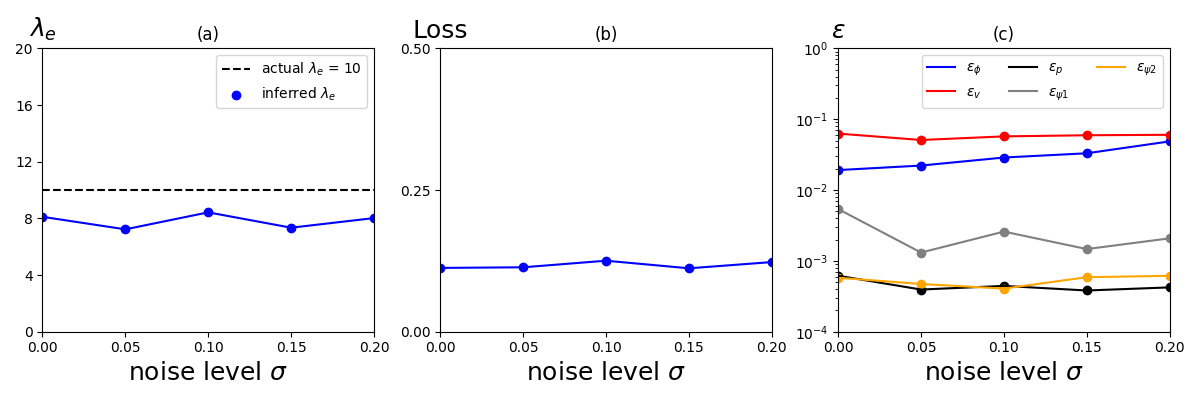
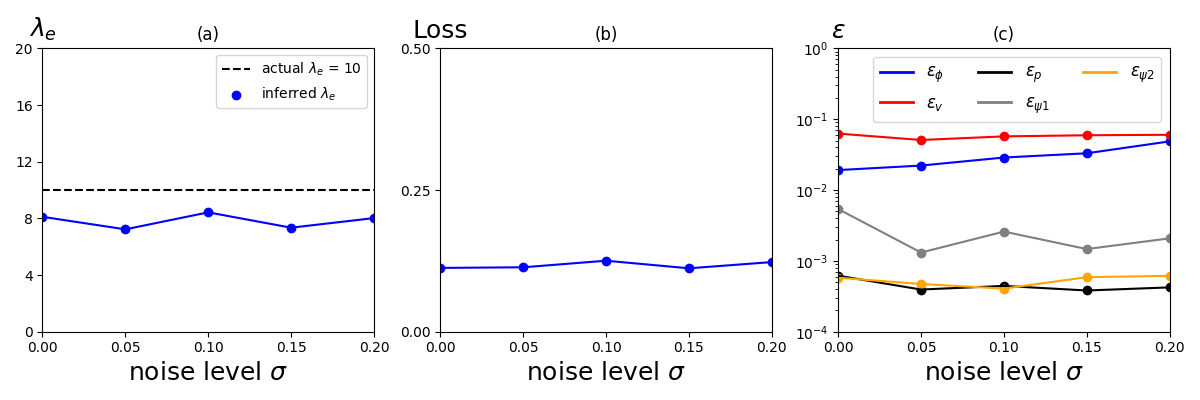
.

Changed region(s): [[0.74, 0.12, 0.9867, 0.3]]

diff --git a/Thrombus/Plot/lmd_2_10_comp/lmd_comp.py b/Thrombus/Plot/lmd_2_10_comp/lmd_comp.py
@@ -34,7 +34,7 @@ def main():
     x_2d = np.concatenate((x1_grid.flatten()[:,None], x2_grid.flatten()[:,None]), axis=1)
 
     ## load data file
-    y_data_2 = np.zeros((6, file_end-file_start, num_x1, num_x2))
+    y_data_15 = np.zeros((6, file_end-file_start, num_x1, num_x2))
     t_step = 0
     for file_id in range(file_start, file_end):
         name_u = '../../../Data/CH/phase_field_xiaoning/Lmd_e_15_K_001/dat/half' + str(file_id) + '.dat'
@@ -45,10 +45,10 @@ def main():
         ## x_tmp: [t,x,y]   u_tmp:[u,v,p,phi]
         y_tmp = np.concatenate(( data_u[:,3:5], data_u[:,6:7], data_phi[:,3:4], data_u[:, 7:9]), axis=1)
         for j in range (0, 6):
-            y_data_2[j, t_step, :, :] = y_tmp[:,j].reshape(100, 100)
+            y_data_15[j, t_step, :, :] = y_tmp[:,j].reshape(100, 100)
         t_step = t_step + 1
 
-    y_data_10 = np.zeros((6, file_end-file_start, num_x1, num_x2))
+    y_data_01 = np.zeros((6, file_end-file_start, num_x1, num_x2))
     t_step = 0
     for file_id in range(file_start, file_end):
         name_u = '../../../Data/CH/phase_field_xiaoning/Lmd_e_01_K_001/dat/half' + str(file_id) + '.dat'
@@ -59,34 +59,34 @@ def main():
         ## x_tmp: [t,x,y]   u_tmp:[u,v,p,phi]
         y_tmp = np.concatenate(( data_u[:,3:5], data_u[:,6:7], data_phi[:,3:4], data_u[:, 7:9]), axis=1)
         for j in range (0, 6):
-            y_data_10[j, t_step, :, :] = y_tmp[:,j].reshape(100, 100)
+            y_data_01[j, t_step, :, :] = y_tmp[:,j].reshape(100, 100)
         t_step = t_step + 1
 
     ## v and phi
-    phi_2 = np.zeros((num_t, num_x1, num_x2))
-    vel_2 = np.zeros((num_t, num_x1, num_x2))
-    p_2 = np.zeros((num_t, num_x1, num_x2))
-    psi_2_1 = np.zeros((num_t, num_x1, num_x2))
-    psi_2_2 = np.zeros((num_t, num_x1, num_x2))
+    phi_15 = np.zeros((num_t, num_x1, num_x2))
+    vel_15 = np.zeros((num_t, num_x1, num_x2))
+    p_15 = np.zeros((num_t, num_x1, num_x2))
+    psi_15_1 = np.zeros((num_t, num_x1, num_x2))
+    psi_15_2 = np.zeros((num_t, num_x1, num_x2))
     
-    phi_10 = np.zeros((num_t, num_x1, num_x2))
-    vel_10 = np.zeros((num_t, num_x1, num_x2))
-    p_10 = np.zeros((num_t, num_x1, num_x2))
-    psi_10_1 = np.zeros((num_t, num_x1, num_x2))
-    psi_10_2 = np.zeros((num_t, num_x1, num_x2))
+    phi_01 = np.zeros((num_t, num_x1, num_x2))
+    vel_01 = np.zeros((num_t, num_x1, num_x2))
+    p_01 = np.zeros((num_t, num_x1, num_x2))
+    psi_01_1 = np.zeros((num_t, num_x1, num_x2))
+    psi_01_2 = np.zeros((num_t, num_x1, num_x2))
 
     for i in range(0, num_t):
-        phi_2[i, :, :] = y_data_2[3, i, :, :]
-        vel_2[i, :, :] = np.sqrt(y_data_2[0, i, :, :]**2 + y_data_2[1, i, :, :]**2)
-        p_2[i, :, :] = y_data_2[2, i, :, :]
-        psi_2_1[i, :, :] = y_data_2[4, i, :, :]
-        psi_2_2[i, :, :] = y_data_2[5, i, :, :]
+        phi_15[i, :, :] = y_data_15[3, i, :, :]
+        vel_15[i, :, :] = np.sqrt(y_data_15[0, i, :, :]**2 + y_data_15[1, i, :, :]**2)
+        p_15[i, :, :] = y_data_15[2, i, :, :]
+        psi_15_1[i, :, :] = y_data_15[4, i, :, :]
+        psi_15_2[i, :, :] = y_data_15[5, i, :, :]
 
-        phi_10[i, :, :] = y_data_10[3, i, :, :]
-        vel_10[i, :, :] = np.sqrt(y_data_10[0, i, :, :]**2 + y_data_10[1, i, :, :]**2)
-        p_10[i, :, :] = y_data_10[2, i, :, :]
-        psi_10_1[i, :, :] = y_data_10[4, i, :, :]
-        psi_10_2[i, :, :] = y_data_10[5, i, :, :]
+        phi_01[i, :, :] = y_data_01[3, i, :, :]
+        vel_01[i, :, :] = np.sqrt(y_data_01[0, i, :, :]**2 + y_data_01[1, i, :, :]**2)
+        p_01[i, :, :] = y_data_01[2, i, :, :]
+        psi_01_1[i, :, :] = y_data_01[4, i, :, :]
+        psi_01_2[i, :, :] = y_data_01[5, i, :, :]
 
     ## plotting phi
     phi_range = np.linspace(-1, 1, 3)[:,None]
@@ -100,7 +100,7 @@ def main():
 
         _ax = fig.add_subplot(_gs[0])
         _ax.axis('off') 
-        _h = _ax.imshow(phi_2[t_gap*(i+1), :, :], interpolation='nearest', cmap='coolwarm', origin='lower', aspect=asp_ratio)
+        _h = _ax.imshow(phi_15[t_gap*(i+1), :, :], interpolation='nearest', cmap='coolwarm', origin='lower', aspect=asp_ratio)
         _h.set_clim(vmin=-1, vmax=1)
         axins = inset_axes(_ax,
                     width="100%",
@@ -113,7 +113,7 @@ def main():
 
         _ax = fig.add_subplot(_gs[1])
         _ax.axis('off') 
-        _h = _ax.imshow(phi_10[t_gap*(i+1), :, :], interpolation='nearest', cmap='coolwarm', origin='lower', aspect=asp_ratio)
+        _h = _ax.imshow(phi_01[t_gap*(i+1), :, :], interpolation='nearest', cmap='coolwarm', origin='lower', aspect=asp_ratio)
         _h.set_clim(vmin=-1, vmax=1)
         axins = inset_axes(_ax,
                     width="100%",
@@ -127,7 +127,7 @@ def main():
 
         _ax = fig.add_subplot(_gs[2])
         _ax.axis('off') 
-        _h = _ax.imshow(np.abs(phi_2[t_gap*(i+1), :, :] - phi_10[t_gap*(i+1), :, :]), interpolation='nearest', cmap='coolwarm', origin='lower', aspect=asp_ratio)
+        _h = _ax.imshow(np.abs(phi_15[t_gap*(i+1), :, :] - phi_01[t_gap*(i+1), :, :]), interpolation='nearest', cmap='coolwarm', origin='lower', aspect=asp_ratio)
         _h.set_clim(vmin=0, vmax=0.1)
         axins = inset_axes(_ax,
                     width="100%",
@@ -147,7 +147,7 @@ def main():
 
         _ax = fig.add_subplot(_gs[0])
         _ax.axis('off') 
-        _h = _ax.imshow(vel_2[t_gap*(i-1), :, :], interpolation='nearest', cmap='coolwarm', origin='lower', aspect=asp_ratio)
+        _h = _ax.imshow(vel_15[t_gap*(i-1), :, :], interpolation='nearest', cmap='coolwarm', origin='lower', aspect=asp_ratio)
         _h.set_clim(vmin=0, vmax=1.0)
         axins = inset_axes(_ax,
                     width="100%",
@@ -160,7 +160,7 @@ def main():
 
         _ax = fig.add_subplot(_gs[1])
         _ax.axis('off') 
-        _h = _ax.imshow(vel_10[t_gap*(i-1), :, :], interpolation='nearest', cmap='coolwarm', origin='lower', aspect=asp_ratio)
+        _h = _ax.imshow(vel_01[t_gap*(i-1), :, :], interpolation='nearest', cmap='coolwarm', origin='lower', aspect=asp_ratio)
         _h.set_clim(vmin=0, vmax=1.0)
         axins = inset_axes(_ax,
                     width="100%",
@@ -173,7 +173,7 @@ def main():
 
         _ax = fig.add_subplot(_gs[2])
         _ax.axis('off') 
-        _h = _ax.imshow(np.abs(vel_2[t_gap*(i-1), :, :] - vel_10[t_gap*(i-1), :, :]), interpolation='nearest', cmap='coolwarm', origin='lower', aspect=asp_ratio)
+        _h = _ax.imshow(np.abs(vel_15[t_gap*(i-1), :, :] - vel_01[t_gap*(i-1), :, :]), interpolation='nearest', cmap='coolwarm', origin='lower', aspect=asp_ratio)
         _h.set_clim(vmin=0, vmax=0.2)
         axins = inset_axes(_ax,
                     width="100%",
@@ -192,7 +192,7 @@ def main():
 
     _ax = fig.add_subplot(_gs[0])
     _ax.axis('off') 
-    _h = _ax.imshow(p_2[t_gap, :, :], interpolation='nearest', cmap='coolwarm', origin='lower', aspect=asp_ratio)
+    _h = _ax.imshow(p_15[t_gap, :, :], interpolation='nearest', cmap='coolwarm', origin='lower', aspect=asp_ratio)
     _h.set_clim(vmin=-20, vmax=0)
     axins = inset_axes(_ax,
                 width="100%",
@@ -205,7 +205,7 @@ def main():
 
     _ax = fig.add_subplot(_gs[1])
     _ax.axis('off') 
-    _h = _ax.imshow(p_10[t_gap, :, :], interpolation='nearest', cmap='coolwarm', origin='lower', aspect=asp_ratio)
+    _h = _ax.imshow(p_01[t_gap, :, :], interpolation='nearest', cmap='coolwarm', origin='lower', aspect=asp_ratio)
     _h.set_clim(vmin=-20, vmax=0)
     axins = inset_axes(_ax,
                 width="100%",
@@ -218,7 +218,7 @@ def main():
 
     _ax = fig.add_subplot(_gs[2])
     _ax.axis('off') 
-    _h = _ax.imshow(np.abs(p_2[t_gap, :, :] - p_10[t_gap, :, :]), interpolation='nearest', cmap='coolwarm', origin='lower', aspect=asp_ratio)
+    _h = _ax.imshow(np.abs(p_15[t_gap, :, :] - p_01[t_gap, :, :]), interpolation='nearest', cmap='coolwarm', origin='lower', aspect=asp_ratio)
     _h.set_clim(vmin=0, vmax=1)
     axins = inset_axes(_ax,
                 width="100%",
@@ -236,7 +236,7 @@ def main():
 
     _ax = fig.add_subplot(_gs[0])
     _ax.axis('off') 
-    _h = _ax.imshow(p_2[t_gap*2, :, :], interpolation='nearest', cmap='coolwarm', origin='lower', aspect=asp_ratio)
+    _h = _ax.imshow(p_15[t_gap*2, :, :], interpolation='nearest', cmap='coolwarm', origin='lower', aspect=asp_ratio)
     _h.set_clim(vmin=0, vmax=10)
     axins = inset_axes(_ax,
                 width="100%",
@@ -249,7 +249,7 @@ def main():
 
     _ax = fig.add_subplot(_gs[1])
     _ax.axis('off') 
-    _h = _ax.imshow(p_10[t_gap*2, :, :], interpolation='nearest', cmap='coolwarm', origin='lower', aspect=asp_ratio)
+    _h = _ax.imshow(p_01[t_gap*2, :, :], interpolation='nearest', cmap='coolwarm', origin='lower', aspect=asp_ratio)
     _h.set_clim(vmin=0, vmax=10)
     axins = inset_axes(_ax,
                 width="100%",
@@ -262,7 +262,7 @@ def main():
 
     _ax = fig.add_subplot(_gs[2])
     _ax.axis('off') 
-    _h = _ax.imshow(np.abs(p_2[t_gap*2, :, :] - p_10[t_gap*2, :, :]), interpolation='nearest', cmap='coolwarm', origin='lower', aspect=asp_ratio)
+    _h = _ax.imshow(np.abs(p_15[t_gap*2, :, :] - p_01[t_gap*2, :, :]), interpolation='nearest', cmap='coolwarm', origin='lower', aspect=asp_ratio)
     _h.set_clim(vmin=0, vmax=1)
     axins = inset_axes(_ax,
                 width="100%",
@@ -276,19 +276,19 @@ def main():
     plt.savefig('append_fig_lmd_comp.png')
     plt.close()
 
-    l2_error_v = get_relative_l2_error(vel_2, vel_10)
+    l2_error_v = get_relative_l2_error(vel_15, vel_01)
     print(f'mean relative l2 error (vel) full time: {l2_error_v.mean()}')
 
-    l2_error_phi = get_relative_l2_error(phi_2, phi_10)
+    l2_error_phi = get_relative_l2_error(phi_15, phi_01)
     print(f'mean relative l2 error (phi) full time: {l2_error_phi.mean()}')
 
-    l2_error_p = get_relative_l2_error(p_2, p_10)
+    l2_error_p = get_relative_l2_error(p_15, p_01)
     print(f'mean relative l2 error (p) full time: {l2_error_p.mean()}')
 
-    l2_error_psi1 = get_relative_l2_error(psi_2_1, psi_10_1)
+    l2_error_psi1 = get_relative_l2_error(psi_15_1, psi_01_1)
     print(f'mean relative l2 error (psi1) full time: {l2_error_psi1.mean()}')
 
-    l2_error_psi2 = get_relative_l2_error(psi_2_2, psi_10_2)
+    l2_error_psi2 = get_relative_l2_error(psi_15_2, psi_01_2)
     print(f'mean relative l2 error (psi2) full time: {l2_error_psi2.mean()}')
 
     

diff --git a/Thrombus/Plot/K_noise/get_error_k_noise.py b/Thrombus/Plot/K_noise/get_error_k_noise.py
@@ -78,7 +78,7 @@ def main():
     ## parameters
     device = torch.device(f"cuda:{0}" if torch.cuda.is_available() else "cpu")
     print(device, flush=True)
-    model_path = '../Inv_K_noise/test_5/CheckPts/model_chkpts.pt'
+    model_path = '../../Inv_K_noise/test_4/CheckPts/model_chkpts.pt'
 
     file_start = 0
     file_end = 20
@@ -96,8 +96,8 @@ def main():
     y_data = np.zeros((4, file_end-file_start, num_x1, num_x2))
     t_step = 0
     for file_id in range(file_start, file_end):
-        name_u = '../../Data/CH/phase_field_xiaoning/K_001/dat/half' + str(file_id) + '.dat'
-        name_phi = '../../Data/CH/phase_field_xiaoning/K_001/dat_phase/halfp' + str(file_id) + '.dat'
+        name_u = '../../../Data/CH/phase_field_xiaoning/K_001/dat/half' + str(file_id) + '.dat'
+        name_phi = '../../../Data/CH/phase_field_xiaoning/K_001/dat_phase/halfp' + str(file_id) + '.dat'
         data_u = np.loadtxt(name_u)
         data_phi = np.loadtxt(name_phi)
 
@@ -139,24 +139,22 @@ def main():
     phi_ref = np.zeros((num_t, num_x1, num_x2))
     vel_inf = np.zeros((num_t, num_x1, num_x2))
     vel_ref = np.zeros((num_t, num_x1, num_x2))
+    p_inf = np.zeros((num_t, num_x1, num_x2))
+    p_ref = np.zeros((num_t, num_x1, num_x2))
     for i in range(0, num_t):
         phi_inf[i, :, :] = Predictions[3, i, :, :]
         phi_ref[i, :, :] = y_data[3, i, :, :]
         vel_inf[i, :, :] = np.sqrt(Predictions[0, i, :, :]**2 + Predictions[1, i, :, :]**2)
         vel_ref[i, :, :] = np.sqrt(y_data[0, i, :, :]**2 + y_data[1, i, :, :]**2)
+        p_inf[i, :, :] = Predictions[2, i, :, :]
+        p_ref[i, :, :] = y_data[2, i, :, :]
 
     l2_error = get_relative_l2_error(vel_inf, vel_ref)
-    # print(f'relative l2 error (vel): {l2_error}')
     print(f'mean relative l2 error (vel): {l2_error.mean()}')
-    # l2_error = get_l2_error(vel_inf, vel_ref)
-    # print(f'relative l2 error (vel): {l2_error}')
-    # print(f'mean l2 error (vel): {l2_error.mean()}')
     l2_error = get_relative_l2_error(phi_inf, phi_ref)
-    # print(f'relative l2 error (phi): {l2_error}')
     print(f'mean relative l2 error (phi): {l2_error.mean()}')
-    # l2_error = get_l2_error(phi_inf, phi_ref)
-    # print(f'relative l2 error (phi): {l2_error}')
-    # print(f'mean l2 error (phi): {l2_error.mean()}')
+    l2_error = get_relative_l2_error(p_inf, p_ref)
+    print(f'mean relative l2 error (p): {l2_error.mean()}')
 
 if __name__ == '__main__':
     main()

diff --git a/Thrombus/Plot/K_noise/K_noise.py b/Thrombus/Plot/K_noise/K_noise.py
@@ -25,17 +25,11 @@ def main():
     num_data = 5
     ### inferred K
     noise_level = np.linspace(0, 0.2, 5)
-    K_inf_text = ['0.006', '0.0049', '0.0060', '0.0054', '0.0051']
-    Loss_inf_text = ['0.0058', '0.0061', '0.0109', '0.0161', '0.0277']
-    err_phi_text = ['0.00027062720957780217', '0.0009604927461011088', '0.0008397013020615627', '0.0006931294143933145', '0.00112296667331825']
-    err_v_text = ['0.009788837434999784', '0.22144974885670984', '0.10303000123009362', '0.18072682246765978', '0.24376745571554478']
-    K_inf, Loss_inf, err_phi, err_v = np.zeros((num_data)), np.zeros((num_data)), np.zeros((num_data)), np.zeros((num_data))
-
-    for i in range(num_data):
-        K_inf[i] = np.array(K_inf_text[i])
-        Loss_inf[i] = np.array(Loss_inf_text[i])
-        err_phi[i] = np.array(err_phi_text[i])
-        err_v[i] = np.array(err_v_text[i])
+    K_inf = [0.006, 0.0049, 0.0060, 0.0054, 0.0051]
+    Loss_inf = [0.0058, 0.0061, 0.0109, 0.0161, 0.0277]
+    err_phi = [0.00027062720957780217, 0.0009604927461011088, 0.0008397013020615627, 0.0006931294143933145, 0.00112296667331825]
+    err_v = [0.009788837434999784, 0.22144974885670984, 0.10303000123009362, 0.18072682246765978, 0.24376745571554478]
+    err_p = [0.009794845039209004, 0.9630689082055446, 0.3124885667445249, 0.7091488581853999, 1.0822722417229453]
 
     ## plotting
     fig = plt.figure(constrained_layout=False, figsize=(12,4))

diff --git a/Thrombus/Plot/K_phi/fig_7.py b/Thrombus/Plot/K_phi/fig_7.py
@@ -157,7 +157,7 @@ def main():
     ax1.set_ylabel('Loss', fontsize=14, rotation="horizontal")
     ax1.yaxis.set_label_coords(0.0,1.02)
     ax1.set_aspect('auto')
-    ax1.legend(ncol=2)
+    ax1.legend(ncol=2, fontsize=10)
 
     ## plot [0, 0]]
     ax2.step(x, K_step, linestyle="--", color="black",label='$\kappa_{true}$')
@@ -170,7 +170,7 @@ def main():
     ax2.yaxis.set_label_coords(0.0,1.02)
     ax2.set_title('(b)')
     ax2.grid()
-    ax2.legend(loc="best")
+    ax2.legend(loc="best", fontsize=10)
     ax2.set_aspect(2)
 
     fig.savefig('fig_K_phi.png')

diff --git a/Thrombus/Plot/lmd_noise/lmd_noise.py b/Thrombus/Plot/lmd_noise/lmd_noise.py
@@ -84,9 +84,13 @@ def main():
     ax3.set_ylim([1e-4, 1e0])
     ax3.set_yscale('log')
     ax3.yaxis.set_label_coords(0.0,1.02)
-    ax3.legend(fontsize=10, loc='best', ncol=3)
+    leg = ax3.legend(fontsize=12, loc='best', ncol=3)
+    for legobj in leg.legendHandles:
+        legobj.set_linewidth(2.0)
+
     plt.tight_layout()
     fig.savefig('fig_lmd_noise.png')
+    
     plt.close()
 
 
